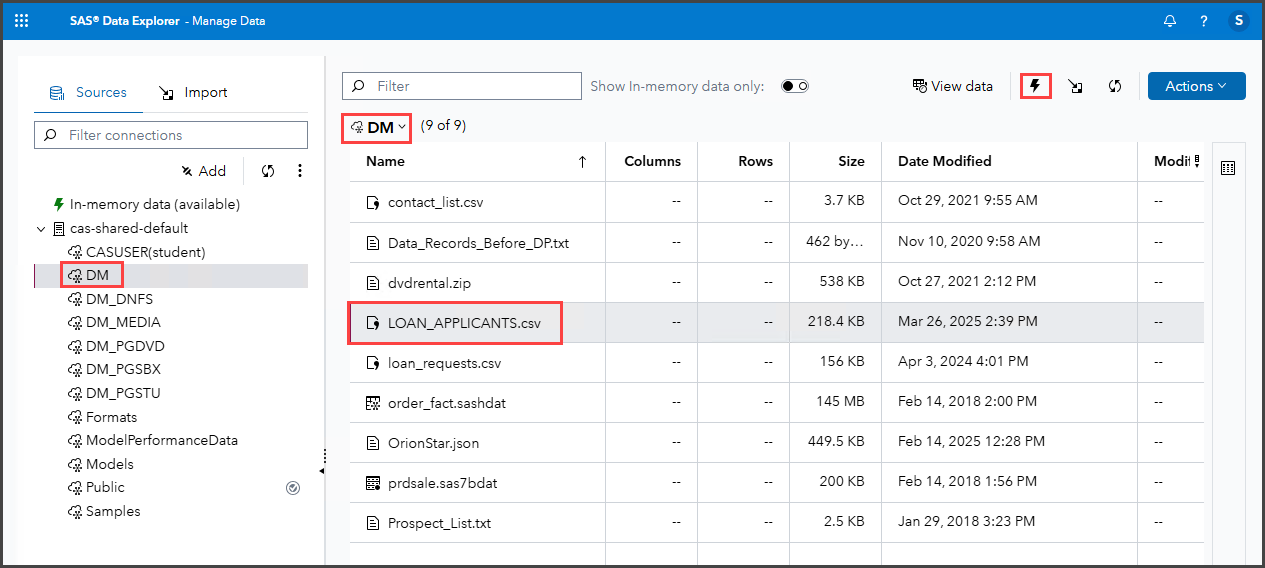
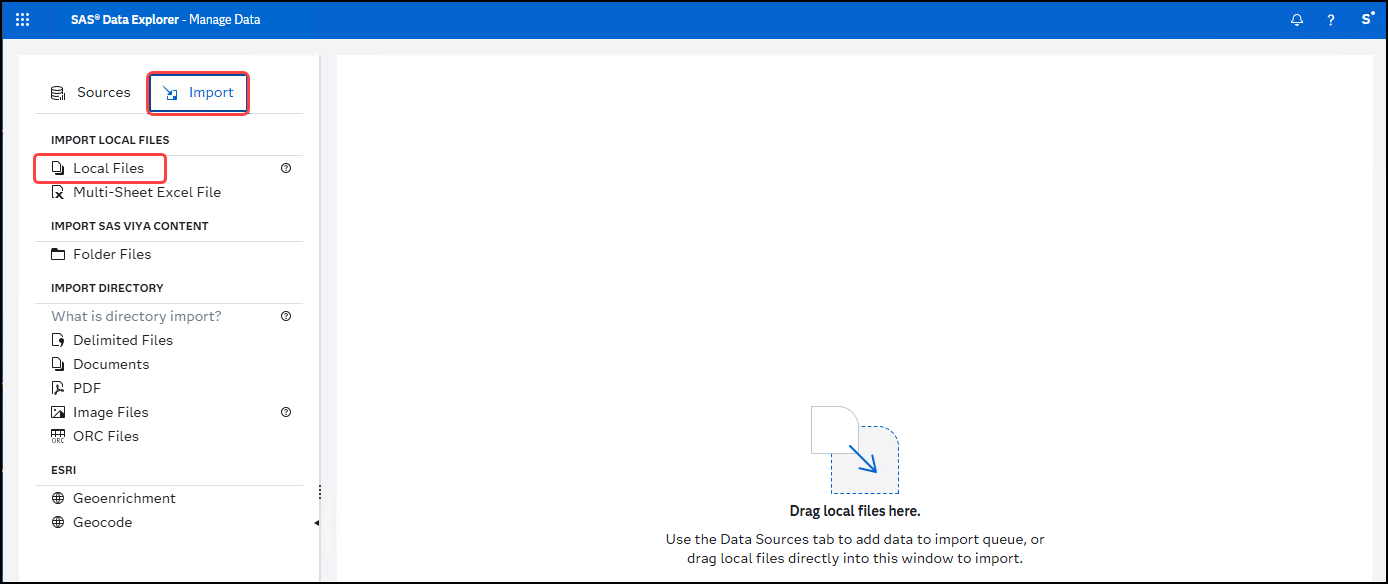
updated Load Data

diff --git a/Getting_Started_with_SAS_Intelligent_Decisioning.md b/Getting_Started_with_SAS_Intelligent_Decisioning.md
@@ -25,11 +25,21 @@ Select **No** when prompted about accepting *Admin* privileges.
 
 ## Load CAS Data In-Memory
 1. Select ![Viya Menu Selector](images/HamburgerMenu.png) **&#10132; Manage Data** to open *SAS Data Explorer*.
-1. ***Import***
-1. Select the **LOAN_APPLICANTS.csv** table and click ![Lightning Bolt icon](images/LightningBolt.png) to load the table into memory.
+1. Select the **Import** tab.
+1. Select **Local Files** to import a file.
 
    ![SAS Data Explorer](images/DataExplorer.png)
 
+1. Navigate to **workshop (\\server.demo.sas.com) (W:) &#10132; SID**
+1. Select the **LOAN_APPLICANTS.csv** file and click **Open**.
+
+   ![Import File](images/SelectImportFile.png)
+
+1. The default options are fine, so click **Import Item** to import the data from the file to a table in the *Public* CAS library.
+
+   ![Import Item](images/ImportItem.png)
+
+1. Select the **Sources** tab.
 1. Select the **In-memory data (available)** source to confirm the **LOAN_APPLICANTS** table is now listed there.
 
    ![In-memory Data](images/InMemoryData.png)
@@ -39,6 +49,8 @@ Select **No** when prompted about accepting *Admin* privileges.
 1. Click the **x** in the right-corner of the window to close the table.
 
    ![Sample data](images/SampleData.png)
+
+<br>
 
 ## Create and Test an Assignment Rule Set
 
